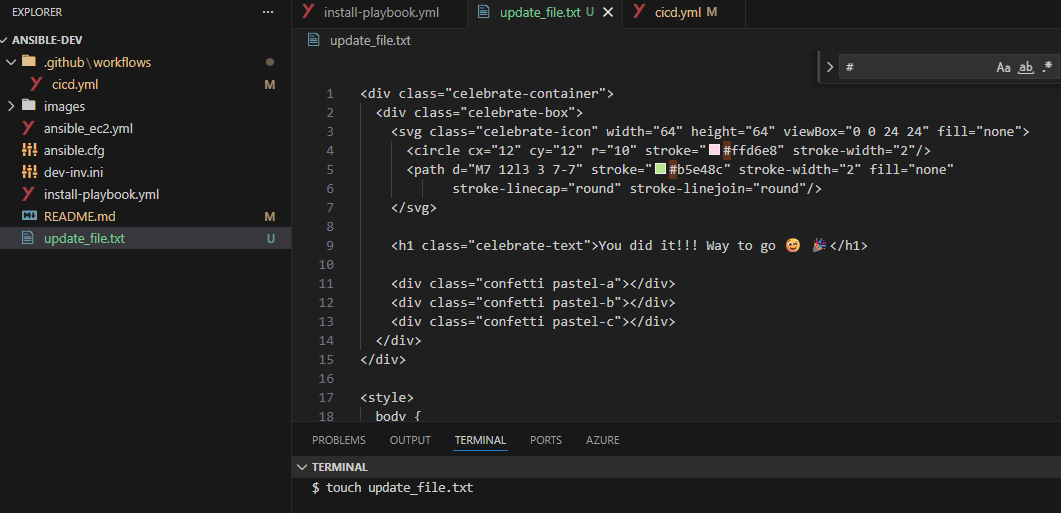
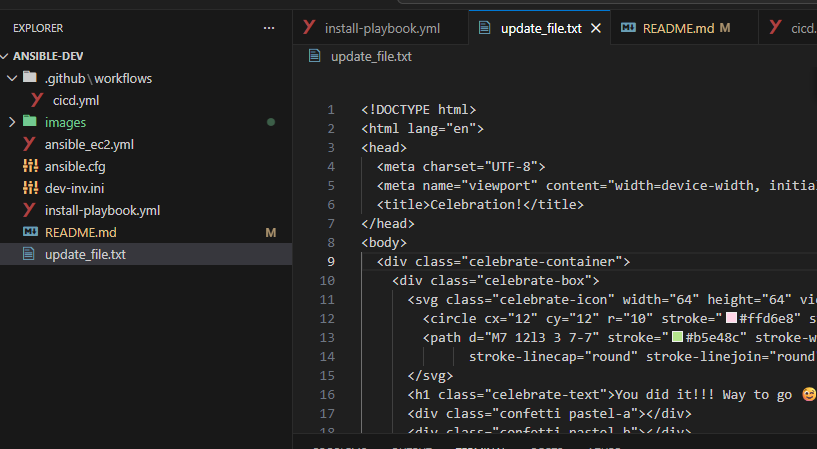
updating README.md with updated server image

diff --git a/README.md b/README.md
@@ -84,7 +84,7 @@ While in ansible-dev folder, create a gitHub repository and push ansible-dev fol
 
 Now, let's create a self-hosted runner for our GitHub repository using our Ansible control server. On your new gitHub repository, go to Settings, then Actions, then Runners. Follow the steps to configure a new runner. Remember that the self-hosted runner is your control Ansible server so this is the server you need to configure.
 
-You will need to log into your ansible server to do this
+You will need to log into your ansible server to do this. You will need your private keypair to log in. Alternatively, using your AWS connect terminal, connect to your Ansible control server.
 
 ![log_into_ansible_server](images/log_into_ansible_server_2.png)
 
@@ -128,20 +128,163 @@ Now, push to your repository and your job should run. If it doesn't start, recon
 
 Once your playbook has run successfully, you should be able to view your installation on your servers. 
 
+
+![server](images/ubuntu_server.png)
+
 Let's go ahead to update our website using our workflow.
 
 Create a file - update_file.txt
 
+![create_update_file](images/create_update_file.png)
 
-Feel free to go back to your playbook, update text and push to github. The update should appear on the webserver once the job is complete.
+Add this script to your new update_file.txt
 
-![server](images/ubuntu_server.png)
+```
+<!DOCTYPE html>
+<html lang="en">
+<head>
+  <meta charset="UTF-8">
+  <meta name="viewport" content="width=device-width, initial-scale=1.0">
+  <title>Celebration!</title>
+</head>
+<body>
+  <div class="celebrate-container">
+    <div class="celebrate-box">
+      <svg class="celebrate-icon" width="64" height="64" viewBox="0 0 24 24" fill="none">
+        <circle cx="12" cy="12" r="10" stroke="#ffd6e8" stroke-width="2"/>
+        <path d="M7 12l3 3 7-7" stroke="#b5e48c" stroke-width="2" fill="none"
+              stroke-linecap="round" stroke-linejoin="round"/>
+      </svg>
+      <h1 class="celebrate-text">You did it!!! Way to go 😉 🎉</h1>
+      <div class="confetti pastel-a"></div>
+      <div class="confetti pastel-b"></div>
+      <div class="confetti pastel-c"></div>
+    </div>
+  </div>
 
-![update_playbook](images/update_text.png)
+  <style>
+    body {
+      margin: 0;
+      padding: 0;
+      background: #0e0e0e;
+      font-family: Arial, Helvetica, sans-serif;
+    }
+    .celebrate-container {
+      display: flex;
+      align-items: center;
+      justify-content: center;
+      min-height: 100vh;
+      text-align: center;
+    }
+    .celebrate-box {
+      position: relative;
+      padding: 24px 28px;
+      border-radius: 18px;
+      border: 3px solid #ffd6e8;
+      background: #1a1a1a;
+      animation: pop-in 0.8s ease-out;
+    }
+    .celebrate-icon {
+      animation: bounce 1.6s infinite ease-in-out, rotate-icon 3s infinite ease-in-out;
+    }
+    .celebrate-text {
+      margin-top: 14px;
+      font-size: 1.8rem;
+      color: #c8fff0;
+      font-weight: 800;
+      animation: zoom-pulse 2s infinite ease-in-out;
+    }
+    /* Pastel confetti */
+    .confetti {
+      position: absolute;
+      width: 10px;
+      height: 10px;
+      border-radius: 50%;
+      animation: float 2.2s infinite ease-in-out;
+    }
+    .pastel-a { background:#ffc8dd; left:-18px; top:10px; animation-delay:.3s; }
+    .pastel-b { background:#bde0fe; right:-18px; top:26px; animation-delay:.6s; }
+    .pastel-c { background:#caffbf; left:50%; bottom:-18px; animation-delay:.9s; }
+    
+    @keyframes bounce {
+      0%,100% { transform: translateY(0); }
+      50% { transform: translateY(-6px); }
+    }
+    @keyframes rotate-icon {
+      0%, 100% { transform: rotate(0deg) scale(1); }
+      25% { transform: rotate(-10deg) scale(1.1); }
+      75% { transform: rotate(10deg) scale(1.1); }
+    }
+    @keyframes zoom-pulse {
+      0%, 100% { transform: scale(1); }
+      50% { transform: scale(1.08); }
+    }
+    @keyframes pop-in {
+      from { transform: scale(.8); opacity:0; }
+      to { transform: scale(1); opacity:1; }
+    }
+    @keyframes float {
+      0% { transform: translateY(0) rotate(0); opacity:1; }
+      100% { transform: translateY(-18px) rotate(45deg); opacity:.2; }
+    }
+  </style>
+</body>
+</html>
+```
 
-![update_workflow](images/updated_text_workflow.png)
+![update_file](images/update_file.png)
 
-![server_updated](images/server_updated.png)
+Update your playbook task - install-playbook.yml 
+```
+---
+- name: install package
+  hosts: all
+  become: true
+
+  tasks:
+    - name: Install Apache on Ubuntu/Debian
+      package:
+        name: apache2
+        state: present
+      when: ansible_os_family == "Debian"
+
+    - name: Install Apache on CentOS/RHEL
+      package:
+        name: httpd
+        state: present
+      when: ansible_os_family == "RedHat"
+
+    - name: Start and enable Apache on Ubuntu/Debian
+      service:
+        name: apache2
+        state: started
+        enabled: yes
+      when: ansible_os_family == "Debian"
+
+    - name: Start and enable Apache on CentOS/RHEL
+      service:
+        name: httpd
+        state: started
+        enabled: yes
+      when: ansible_os_family == "RedHat"
+
+    - name: Update index.html with custom text
+      copy:
+        dest: /var/www/html/index.html
+        src: update_file.txt
+        mode: '0644'
+
+```
+
+![update_playbook](images/update_playbook.png)
+
+Push your updates to GitHub repository and a new workflow should start running.
+
+![git_push](images/git_push_update.png)
+
+Go back to your servers and view changes!!!
+
+![updated_server](images/you_did_it.png)
 
 Let me know on discord if you run into any issues with this so I can review and update. I am also happy to get input and happy to help troubleshoot if needed.
 
